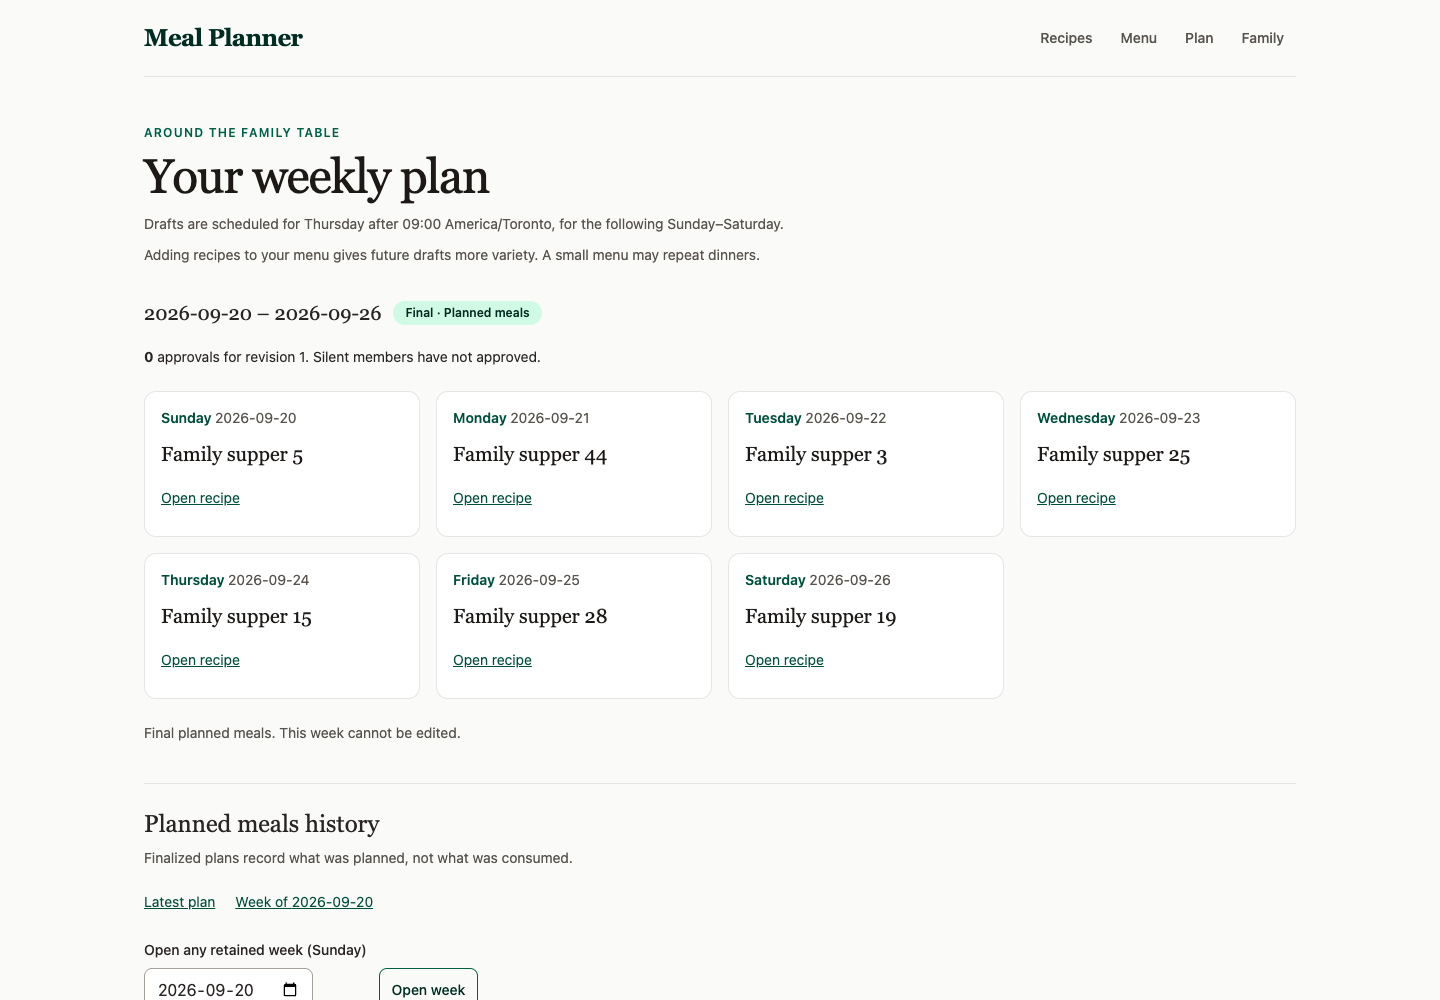
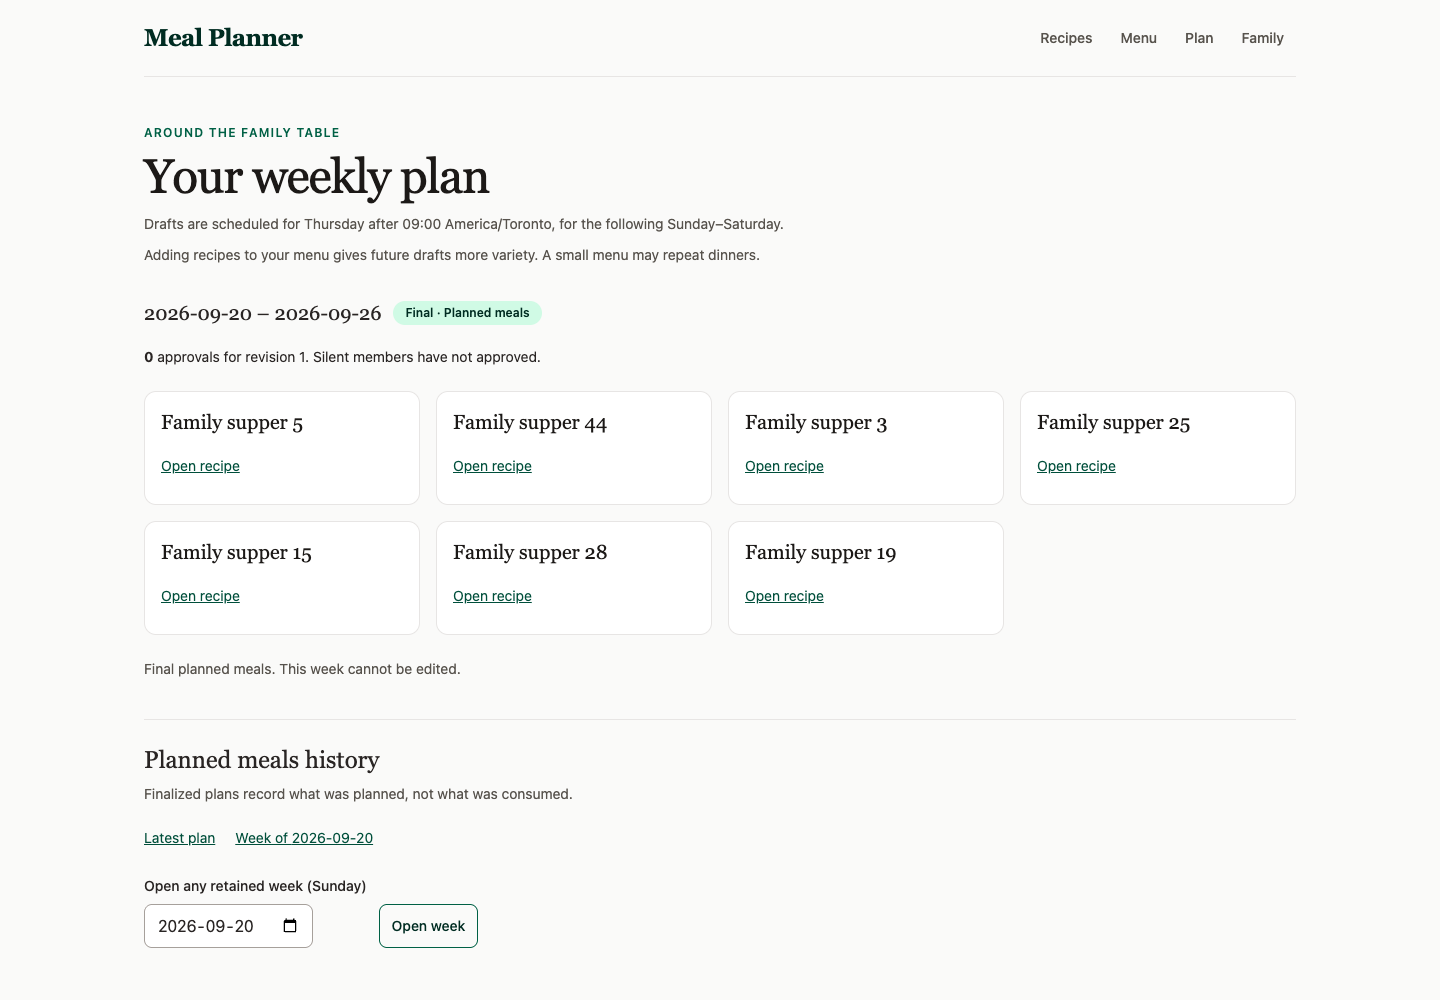
feat: show seven weekly recipes without assigned dates

diff --git a/tests/plans/browser.ts b/tests/plans/browser.ts
@@ -18,6 +18,11 @@ try{
  const user=await db.one<{googleSubject:string;email:string}>('SELECT google_subject AS "googleSubject",verified_email AS email FROM app_users LIMIT 1');assert.ok(user);
  const identity={...user,emailVerified:true as const};const allowed=[user.email];
  for(let n=0;n<54;n++)await saveMenuRecipe(db,identity,allowed,{title:n===53?'Long saved dinner '+ 'hearty'.repeat(23):'Family supper '+n,sourceUrl:'https://example.test/weekly/'+n,imageUrl:null,summary:'A saved family dinner.',time:null});
+ async function recipeCards(expectedWeek: string) {
+  assert.equal(await browser!.evaluate("document.querySelectorAll('article').length===7 && document.querySelectorAll('article h2').length===7 && !document.querySelector('article time,article [datetime]')"),true,'seven recipe-title cards without date elements');
+  assert.equal(await browser!.evaluate("Array.from(document.querySelectorAll('article')).every(card=>!(/Sunday|Monday|Tuesday|Wednesday|Thursday|Friday|Saturday|\\d{4}-\\d{2}-\\d{2}/.test(card.innerText)))"),true,'recipe cards have no weekday/date assignment labels');
+  assert.equal(await browser!.evaluate(`Array.from(document.querySelectorAll('main > div time')).some(time=>time.getAttribute('datetime')===${JSON.stringify(expectedWeek)})`),true,'week range stays above cards');
+ }
  const local=torontoClock(new Date());const due=new Date(local.date+'T23:00:00Z');
  await generateDuePlans(db,allowed,local.day,due);
  let view=await readPlans(db,identity,allowed,{},due);const id=view.plan!.id;const week=view.plan!.weekStart;
@@ -25,10 +30,12 @@ try{
  await browser.waitFor("Boolean(document.querySelector('[data-plan-approve]')) && Object.keys(document.querySelector('[data-plan-approve]')).some(k=>k.startsWith('__reactProps$'))",'hydrated weekly controls');
  assert.equal(await browser.evaluate("document.querySelectorAll('main').length===1 && document.querySelectorAll('h1').length===1 && document.querySelectorAll('article').length===7"),true);
  assert.equal(await browser.evaluate("/away|attendance/i.test(document.querySelector('main').innerText)"),false);
+ await recipeCards(week);
  for(const width of [320,1440]){await browser.viewport(width);await browser.screenshot(`org/reviews/weekly-plan-draft-${width}.png`);}
  await browser.click('[data-plan-approve]');await browser.waitFor("document.querySelector('[data-plan-approve]')?.textContent==='You approved'",'persisted approval');
  assert.equal((await readPlans(db,identity,allowed,{},due)).approvals,1);
- assert.equal(await browser.evaluate("document.querySelector('label[for=swap-0]').textContent"),'Saved dinner for Sunday');
+ assert.equal(await browser.evaluate("document.querySelector('label[for=swap-0]').textContent"),`Replacement recipe for ${view.plan!.meals[0].title}`);
+ assert.equal(await browser.evaluate("Array.from(document.querySelectorAll('article select')).every(control=>control.labels.length===1 && control.labels[0].htmlFor===control.id)"),true,'unique accessible recipe-oriented select labels');
  await browser.waitFor("!document.querySelector('#swap-0').disabled",'swap enabled after refresh');
  await browser.click('#swap-0');
  for(const event of [{type:'keyDown',key:'Escape',code:'Escape',windowsVirtualKeyCode:27},{type:'keyUp',key:'Escape',code:'Escape',windowsVirtualKeyCode:27},{type:'keyDown',key:'l',code:'KeyL',text:'l',unmodifiedText:'l',windowsVirtualKeyCode:76},{type:'keyUp',key:'l',code:'KeyL',windowsVirtualKeyCode:76}])await browser.send('Input.dispatchKeyEvent',event);
@@ -52,6 +59,7 @@ try{
  await browser.click('[data-plan-confirm]');await browser.waitFor("document.body.innerText.includes('Final · Planned meals') && !document.querySelector('[data-plan-finalize]')",'confirmed immutable week');
  await browser.navigate(server.origin+'/plans?week='+week);await browser.waitFor("document.body.innerText.includes('Final · Planned meals')",'final survives reload');
  assert.equal((await readPlans(db,identity,allowed,{week},due)).plan?.status,'final');
+ await recipeCards(week);
  // Genuine retained planned history created only in this owned fixture/process.
  const pastDate=addDays(local.date,-70);const past=new Date(pastDate+'T23:00:00Z');await generateDuePlans(db,allowed,torontoClock(past).day,past);
  const old=(await db.one<{id:string;week:string}>('SELECT id,week_start::text AS week FROM meal_plan_weeks WHERE week_start<$1::date ORDER BY week_start LIMIT 1',[week]))!;
@@ -59,6 +67,7 @@ try{
  await browser.navigate(server.origin+'/plans');await browser.waitFor(`Boolean(document.querySelector('a[href="/plans?week=${old.week}"]'))`,'finalized history link');
  await browser.click(`a[href="/plans?week=${old.week}"]`);await browser.waitFor(`location.search.includes('${old.week}') && document.querySelectorAll('article').length===7`,'retained planned history');
  assert.equal(await browser.evaluate("Boolean(document.querySelector('[data-plan-suggest]'))"),false);
+ await recipeCards(old.week);
  for(const width of [320,1440]){await browser.viewport(width);await browser.screenshot(`org/reviews/weekly-plan-history-${width}.png`);}
  await browser.click('#history-week');await browser.send('Input.dispatchKeyEvent',{type:'keyDown',key:'Tab',code:'Tab',windowsVirtualKeyCode:9});await browser.send('Input.dispatchKeyEvent',{type:'keyUp',key:'Tab',code:'Tab',windowsVirtualKeyCode:9});
  assert.equal(await browser.evaluate("document.activeElement.matches(':focus-visible')"),true,'native keyboard focus remains visible');

diff --git a/app/plans/plan-controls.tsx b/app/plans/plan-controls.tsx
@@ -2,7 +2,6 @@
 import { useRef, useState, useTransition } from 'react';
 import { useRouter } from 'next/navigation';
 import type { PlanAction, PlanView } from '../../lib/plans/types';
-import { addDays, weekdays } from '../../lib/plans/calendar';
 const button = 'inline-flex min-h-11 items-center justify-center rounded-lg border border-emerald-800 px-3 py-2 text-sm font-medium text-emerald-950 hover:bg-emerald-50 focus-visible:outline-2 focus-visible:outline-offset-2 focus-visible:outline-emerald-700 disabled:cursor-wait disabled:opacity-50';
 export default function PlanControls({ view }: { view: PlanView }) {
   const router = useRouter();
@@ -42,11 +41,10 @@ export default function PlanControls({ view }: { view: PlanView }) {
     </div>
     <div className="mt-6 grid min-w-0 grid-cols-1 gap-4 sm:grid-cols-2 lg:grid-cols-3 xl:grid-cols-4">
       {plan.meals.map((meal, day) => <article key={day} className="min-w-0 rounded-xl border border-stone-200 bg-white p-4">
-        <h2 className="text-sm font-semibold text-emerald-900">{weekdays[day]} <time className="font-normal text-stone-600" dateTime={addDays(plan.weekStart, day)}>{addDays(plan.weekStart, day)}</time></h2>
-        <h3 className="mt-3 font-serif text-xl wrap-anywhere text-stone-900">{meal.title}</h3>
+        <h2 className="font-serif text-xl wrap-anywhere text-stone-900">{meal.title}</h2>
         <a href={meal.sourceUrl} target="_blank" rel="noopener noreferrer" className="mt-2 inline-flex min-h-11 items-center text-sm text-emerald-900 underline focus-visible:outline-2 focus-visible:outline-emerald-700">Open recipe<span className="sr-only">: {meal.title} (new tab)</span></a>
         {view.editable && view.menu.entries.length ? <form className="mt-3 border-t border-stone-100 pt-3" onSubmit={event => { event.preventDefault(); const value = new FormData(event.currentTarget).get('recipe'); if (typeof value === 'string') void submit({ action: 'suggest', revision: plan.revision, day, menuRecipeId: value }); }}>
-          <label className="block text-sm font-medium" htmlFor={`swap-${day}`}>Saved dinner for {weekdays[day]}</label>
+          <label className="block text-sm font-medium" htmlFor={`swap-${day}`}>Replacement recipe<span className="sr-only"> for {meal.title}</span></label>
           <select id={`swap-${day}`} name="recipe" required disabled={disabled} defaultValue="" className="mt-2 min-h-11 w-full min-w-0 max-w-full rounded-lg border border-stone-400 bg-white px-2 text-sm focus-visible:outline-2 focus-visible:outline-emerald-700">
             <option value="" disabled>Choose a replacement</option>
             {view.menu.entries.filter(entry => entry.recipe.sourceUrl !== meal.sourceUrl).map(entry => <option key={entry.id} value={entry.id}>{entry.recipe.title}</option>)}

diff --git a/intent/weekly-meal-planning/intent.md b/intent/weekly-meal-planning/intent.md
@@ -28,6 +28,8 @@ repeats. Keep the interaction small enough that participation saves effort.
 - Draft creation is automatic; its day is configurable by an environment
   variable whose default is Thursday.
 - The draft covers the upcoming Sunday through Saturday.
+- Present **seven weekly recipe choices**, without assigning weekday/date labels
+  to individual recipes. Retain the Sunday–Saturday range as weekly context.
 - Family participation includes approval and suggested recipe swaps.
 - There is no “I'll be away” option.
 - Preserve weekly history and use it to discourage repetitive weekly menus.
@@ -35,8 +37,9 @@ repeats. Keep the interaction small enough that participation saves effort.
 
 ## Acceptance criteria
 
-- A protected weekly-planning screen presents the seven dated days, draft/final
-  status, saved recipe choices, family feedback and actionable empty/error states.
+- A protected weekly-planning screen presents seven recipe choices without
+  individual weekday/date assignments, the Sunday–Saturday weekly range,
+  draft/final status, family feedback and actionable empty/error states.
   Existing shared navigation makes the screen discoverable.
 - An explicit trusted scheduler operation creates at most one draft per family
   and target week, using the configured day and a documented timezone/time.
@@ -47,7 +50,7 @@ repeats. Keep the interaction small enough that participation saves effort.
   recently. A small or empty menu is handled honestly and repeatably; repetition
   is allowed rather than blocking planning.
 - Current eligible family members can approve a draft or suggest a concrete
-  saved-recipe replacement for a dated meal. The screen distinguishes suggestions
+  saved-recipe replacement for a recipe choice. The screen distinguishes suggestions
   from accepted changes, and accepted changes cannot silently retain misleading
   approvals of an older draft.
 - A clear confirmation action settles the plan without needing every family
@@ -72,8 +75,9 @@ repeats. Keep the interaction small enough that participation saves effort.
 These are proposed product defaults, not claims of additional owner approval.
 The architect and independent reviewer may refine them within the outcome above:
 
-- Start with **one dinner per day**, seven dinners per week. Other meal types
-  and multiple courses are outside this first increment.
+- Start with **seven dinner recipe choices per week**, without assigning each
+  recipe to a day. Other meal types and multiple courses are outside this first
+  increment. This replaces the initial one-dinner-per-day presentation proposal.
 - Use the owner's known **America/Toronto** timezone as the proposed application
   default and choose/document a precise generation time. Calendar dates must
   remain correct across daylight-saving transitions. Avoid per-family timezone
@@ -106,6 +110,12 @@ exception to the existing committed deployment-config constraint, present the
 concrete conflict to the owner rather than silently changing that contract.
 
 ## Handoff
+
+Owner refinement recorded in `org/messages/ceo-0051.md`: “No need to label recipes
+with dates. Lets just have 7 recipes for the draft.” The independently reviewed
+presentation amendment is `org/reviews/weekly-meal-planning-presentation-001.md`.
+This removes per-recipe weekday/date assignments while retaining weekly range,
+scheduling, history and actions.
 
 Architect: specify the calendar, scheduler trust boundary, draft algorithm,
 history lifecycle, feedback/confirmation model, persistence and UI; produce a

diff --git a/intent/weekly-meal-planning/verification.md b/intent/weekly-meal-planning/verification.md
@@ -46,3 +46,30 @@ No launchd job was installed or activated. No deployment, hosted migration, prom
 Saved feature screenshots: `org/reviews/weekly-plan-{draft,swap,history}-{320,1440}.png`. Visually inspected the320px accepted long-title swap (text wraps within card, no overflow),1440px draft (seven-day grid, clear native controls), and320px finalized retained history (read-only recipe links and dated final label). Historical screenshots were preserved.
 
 The CLI was aligned with the no-work contract: validate day/allowlist/URL, use one actual clock, then skip successfully before opening storage on an off-day/before09:00. The new real off-day test uses a valid unreachable loopback URL and passes without connecting. No test clock override/environment bypass was introduced. The final13-test plans suite and strict typecheck both exited0 after this change. No Next rebuild was needed for this unbundled CLI-only change; browser evidence used the final compiled page/route copy.
+
+## Owner presentation amendment verification
+
+Owner request `org/messages/ceo-0051.md` was captured in spec/plan and independently
+approved in `org/reviews/weekly-meal-planning-presentation-001.md` before source
+changes. Added browser assertions first; running the old compiled UI exited1
+with the expected “seven recipe-title cards without date elements” failure.
+
+Changed only shared recipe-card presentation: title headings replace weekday/date
+headings; selects visibly say “Replacement recipe” and include the recipe title
+in their uniquely associated accessible label. Draft, final and history cards
+have no assigned weekday/date labels or date elements. The top-level week range
+and all scheduling/storage/action behavior remain unchanged.
+
+After correction: `pnpm run lint` exit0; `pnpm run typecheck` exit0; final
+`pnpm run build` exit0 including strict TypeScript. `pnpm run test:plans` exit0,
+13/13 passed. `node --import tsx tests/plans/browser.ts` exit0 on that final
+build, preserving all prior interaction checks and additionally asserting seven
+recipe-title cards, no card dates/weekday labels, associated recipe-oriented
+select labels and retained top-level range in draft/final/history.
+
+Recaptured all six feature screenshots at320/1440. Visually inspected the1440px
+draft (seven recipe-title cards, no date labels),320px accepted long-title swap
+(wrapping within the card, clear replacement control), and320px finalized history
+(undated recipe cards with the separate week range). No horizontal overflow or
+unexpected console errors. Owned test server/profile/database cleaned up. No
+DB/auth/scheduler/deployment changes were made for this amendment.

diff --git a/intent/weekly-meal-planning/brainstorm.md b/intent/weekly-meal-planning/brainstorm.md
@@ -67,6 +67,12 @@ work, and whether silence should count as delegation.
   exact same meals do not recur every week. Repeating a meal is allowed.
 - The owner then asked to save this brainstorm and implement through the SDLC
   org workflow, beginning with an intent.
+- During implementation, the owner refined the presentation: “No need to label
+  recipes with dates. Lets just have 7 recipes for the draft.” Present seven
+  weekly recipe choices without individual weekday/date assignments; retain the
+  Sunday–Saturday weekly range, scheduling, history and family actions. Source:
+  `org/messages/ceo-0051.md`; independent amendment review:
+  `org/reviews/weekly-meal-planning-presentation-001.md`.
 
 ## Design decisions still to make
 

diff --git a/intent/weekly-meal-planning/plan.md b/intent/weekly-meal-planning/plan.md
@@ -152,7 +152,7 @@ an explained spec/plan amendment and independent review before implementation.
 
 Source: `org/messages/ceo-0051.md`.
 
-Pending independent review before source changes. Owner requested that the draft
+Independently approved before source changes: `org/reviews/weekly-meal-planning-presentation-001.md`. Owner requested that the draft
 show seven recipes without recipe date labels. Keep the Sunday–Saturday range
 above the grid and all existing calendar/storage/action semantics.
 
